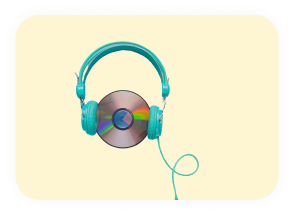
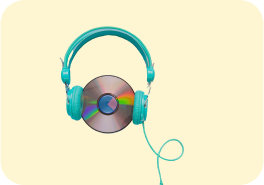
footer tooltip v3

diff --git a/public/index.html b/public/index.html
@@ -2,7 +2,7 @@
 <html lang="en">
   <head>
     <meta charset="utf-8" />
-    <link rel="icon" href="%PUBLIC_URL%/favicon.ico" />
+    <link rel="icon" href="%PUBLIC_URL%/favicon.svg" />
     <meta name="viewport" content="width=device-width, initial-scale=1" />
     <meta name="theme-color" content="#000000" />
     <meta
@@ -24,7 +24,7 @@
       work correctly both with client-side routing and a non-root public URL.
       Learn how to configure a non-root public URL by running `npm run build`.
     -->
-    <title>React App</title>
+    <title>Numah</title>
   </head>
   <body>
     <noscript>You need to enable JavaScript to run this app.</noscript>

diff --git a/src/components/ForFans/ForFans.module.css b/src/components/ForFans/ForFans.module.css
@@ -28,6 +28,7 @@
   flex-direction: column;
   justify-content: space-between;
   align-items: center;
+  gap: 16px;
 }
 .middle {
   width: 38%;
@@ -35,6 +36,12 @@
 .middle .oneFrame {
   width: 100%;
   height: 100%;
+}
+.oneFrame img {
+  width: 100%;
+  height: 100%;
+  object-fit: cover;
+  border-radius: 24px;
 }
 .middle img {
   width: 100%;

diff --git a/src/components/Wishlist/Wishlist.module.css b/src/components/Wishlist/Wishlist.module.css
@@ -100,6 +100,11 @@
 }
 .giftsUser img {
   border-radius: 50%;
+  width: 40px;
+  height: 40px;
+  object-fit: cover;
+}
+.giftsUser .name {
 }
 
 /* Media Queries */

diff --git a/src/components/Layout/Header/Header.module.css b/src/components/Layout/Header/Header.module.css
@@ -6,7 +6,7 @@
 .headerInner {
   display: flex;
   justify-content: space-between;
-  padding: 24px 0;
+  padding-block: 24px;
   gap: 10px;
 }
 .left {
